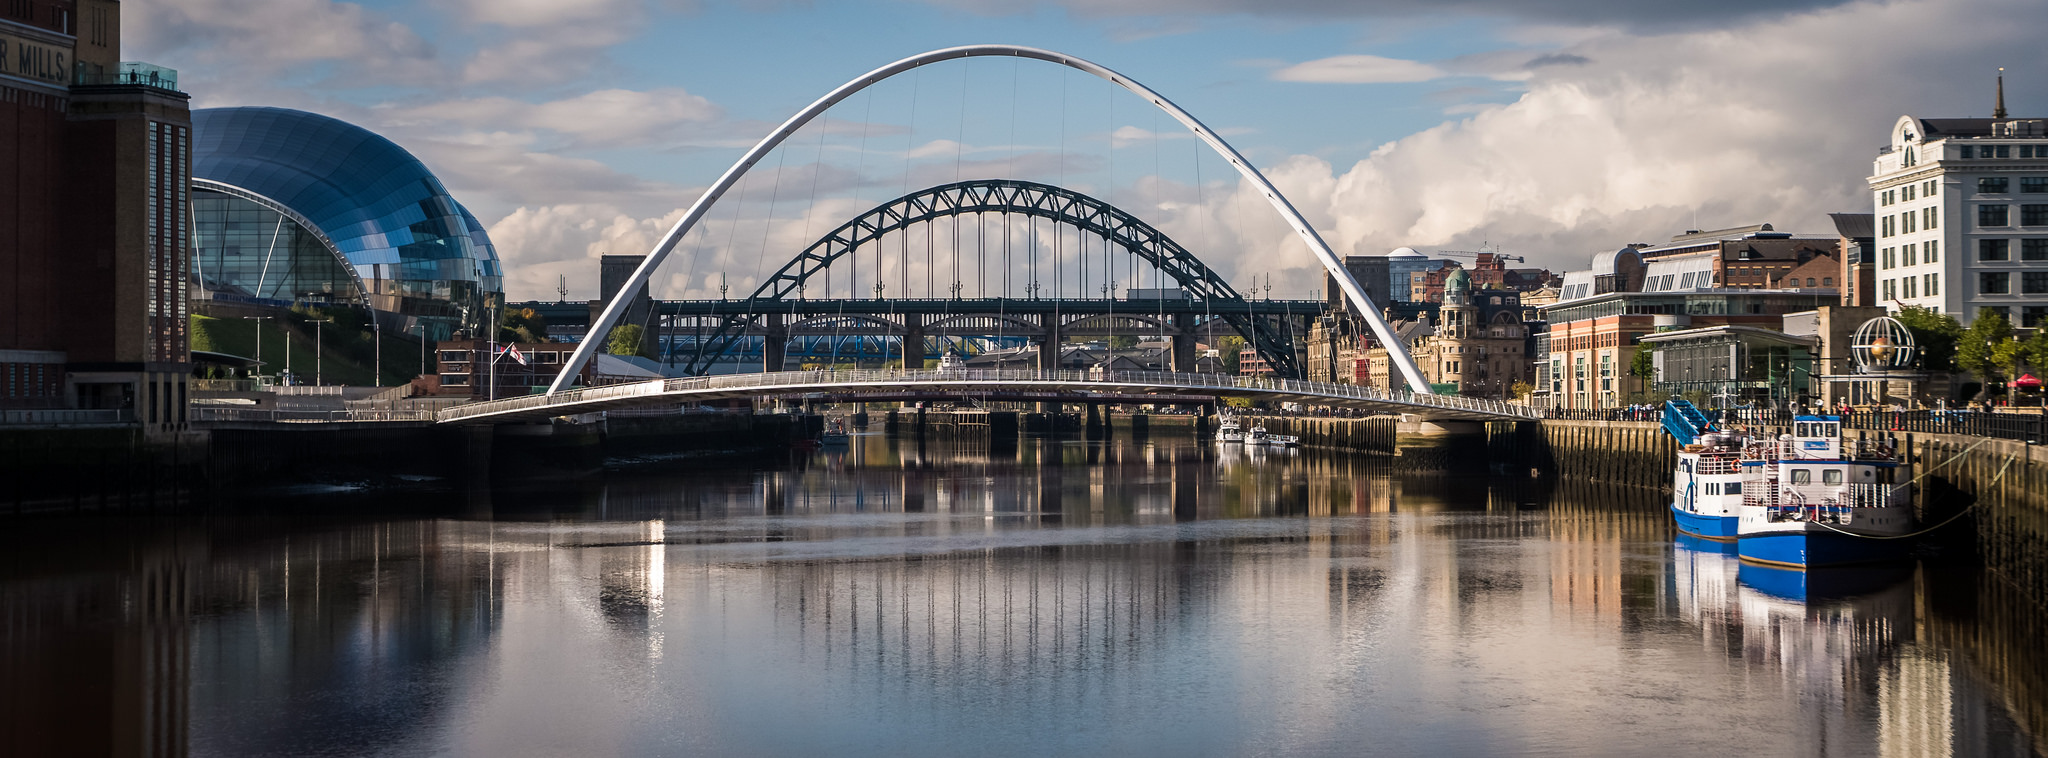
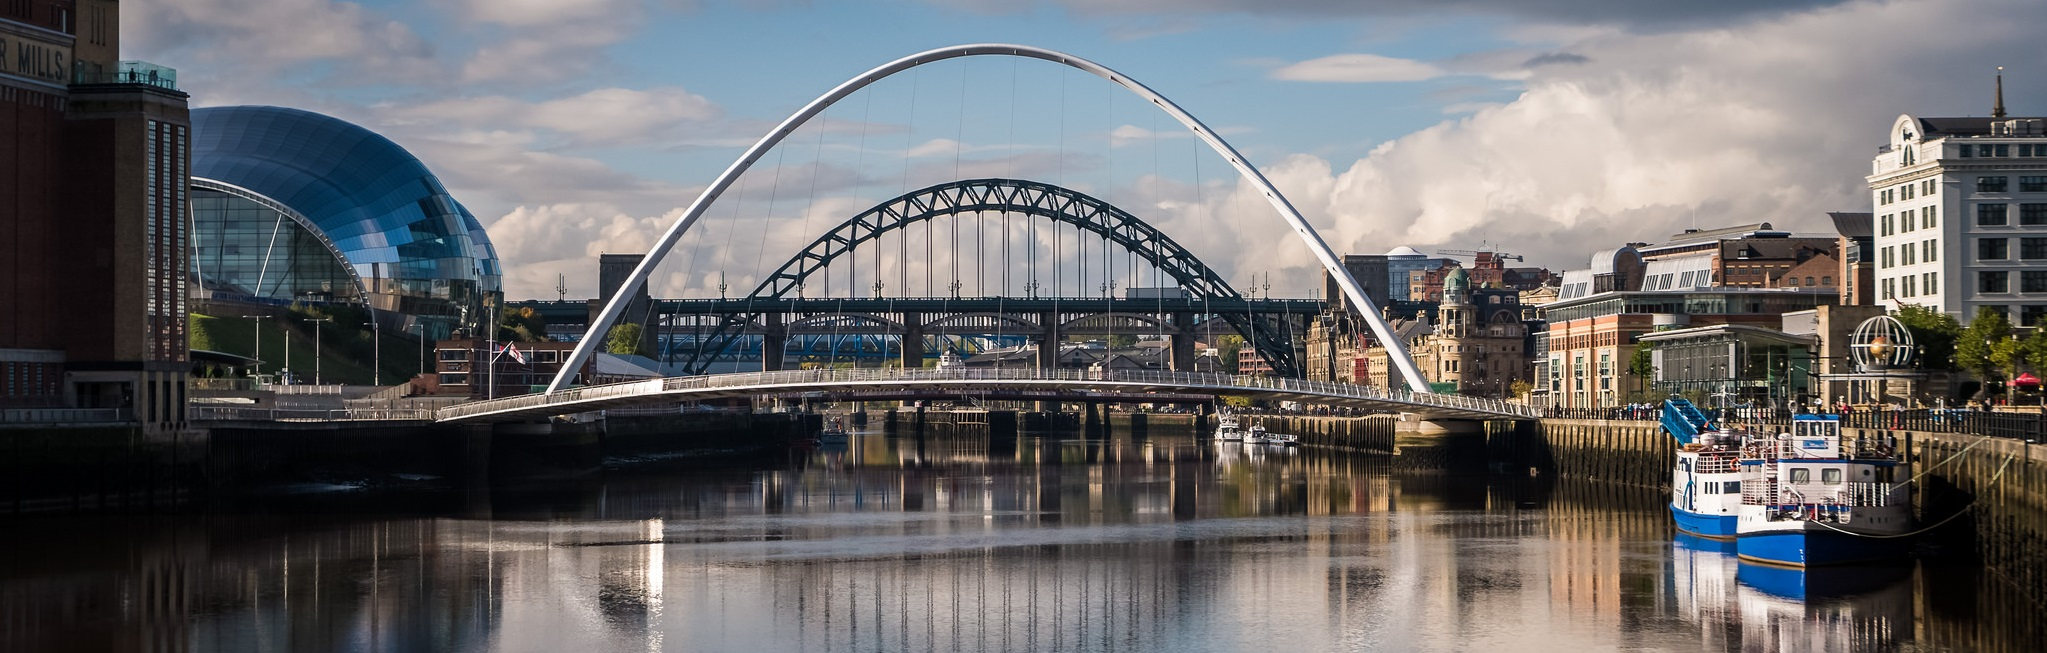
Rename / remove some images

diff --git a/index.html b/index.html
@@ -36,9 +36,9 @@
           <img src="https://avatars1.githubusercontent.com/u/4378571?s=460&v=4" alt="profile pic" class="img-responsive profile-pic center-block">
           <h1>Matthew Jacques</h1>
           <h2>Software Developer, C++</h2>
-          <a href="mailto:matthew-jacques@outlook.com" class="email"><span class="glyphicon glyphicon-envelope" aria-hidden="true"></span>matthew-jacques@outlook.com</a>
+          <!-- <a href="mailto:email@email.com" class="email"><span class="glyphicon glyphicon-envelope" aria-hidden="true"></span>email@email.com</a> -->
         </div>
-        
+
       </div>
     </div>
 
@@ -51,19 +51,19 @@
         <h1 class="text-center section-heading">Work</h1>
       </div>
     </div>
-	
+
 	<!-- Backlog Manager -->
     <div class="row">
 
       <div class="col-sm-8 col-sm-offset-2">
-        
+
         <div class="col-lg-8">
           <img src="img/projects/BacklogManager/Forms.png" alt="Backlog Manager" class="img-responsive center-block">
         </div>
 
         <div class="col-lg-4">
           <h3>Backlog Manager</h3>
-          <p>An app built to efficiently manage a backlog of games. The application supports PC, PS3, PS4 and PS Vita. 
+          <p>An app built to efficiently manage a backlog of games. The application supports PC, PS3, PS4 and PS Vita.
 		  Users can set the play status of each game while the game list has filters to hide certain platforms and play statuses.</p>
           <p><a href="https://github.com/MattyJacques/BacklogManager">GitHub Repo</a></p>
         </div>
@@ -78,24 +78,24 @@
       </div>
 
     </div>
-	
+
     <br/><br/>
-	
+
 	<!-- Edge-Matching Puzzle Solver (Genetic Algorithm) -->
     <div class="row">
 
       <div class="col-sm-8 col-sm-offset-2">
-        
+
         <div class="col-lg-8">
           <img src="img/projects/EdgeMatchingPuzzleSolver/EdgeMatchingPuzzleSolver.png" alt="" class="img-responsive center-block">
         </div>
 
         <div class="col-lg-4">
           <h3>Edge-Matching Puzzle Solver (Genetic Algorithm)</h3>
-          <p>For my final year project at university I created a Windows console applications that uses a Genetic Algorithm to attempt 
-		  to solve edge-matching puzzles such as the “unsolvable” Eternity II. Multiple methods have been implemented within the 
+          <p>For my final year project at university I created a Windows console applications that uses a Genetic Algorithm to attempt
+		  to solve edge-matching puzzles such as the “unsolvable” Eternity II. Multiple methods have been implemented within the
 		  Genetic Algorithm for each of the internal components such as selection and crossover. The application reads a settings file
-		  in which the user can edit to select which methods to use along with how big and complicated the puzzle is. All data the 
+		  in which the user can edit to select which methods to use along with how big and complicated the puzzle is. All data the
 		  application needs for the pieces of the puzzle are stored in a data file which is selected after parsing the settings.</p>
           <p><a href="https://github.com/MattyJacques/Eternity-II-Genetic-Algorithm">GitHub Repo</a></p>
         </div>
@@ -108,23 +108,23 @@
       </div>
 
     </div>
-	
+
     <br/><br/>
-	
+
 	<!-- Werewolf: Witch Hunt -->
     <div class="row">
 
       <div class="col-sm-8 col-sm-offset-2">
-        
+
         <div class="col-lg-8">
 		  <iframe width="700" height="400"
             src="https://www.youtube.com/embed/DRBMR0990Gc">
-           </iframe> 
+           </iframe>
         </div>
 
         <div class="col-lg-4">
           <h3>Werewolf: Witch Hunt</h3>
-          <p>This game was created with two other students for a group assignment. 
+          <p>This game was created with two other students for a group assignment.
 		  The game we created was a 2D platformer in which the player transforms to and from a werewolf state depending on the location of the moon which moves along the level at a set speed.</p>
           <p><a href="https://github.com/MattyJacques/Combined-Games-Werewolf">GitHub Repo</a></p>
         </div>
@@ -138,24 +138,24 @@
       </div>
 
     </div>
-	
+
 	<br/><br/>
-	
+
 	<!-- BeatMyBot (AI & Networking) -->
     <div class="row">
 
       <div class="col-sm-8 col-sm-offset-2">
-        
+
         <div class="col-lg-8">
           <iframe width="700" height="400" src="https://www.youtube.com/embed/ONSj3GWju9U" frameborder="0" allow="autoplay; encrypted-media" allowfullscreen></iframe>
         </div>
 
         <div class="col-lg-4">
           <h3>BeatMyBot (AI & Networking)</h3>
-          <p>In the Specialist Games Programming module at university I was tasked to create a state machine that controlled a team of bots that would play a domination type game against some provided AI. 
-		  This involved creating behaviours to be controlled by the state machine. 
-		  The networking section of the assignment was to create a server and a client, where the client would get the data from the server and show this on the client side. 
-		  This was improved from sending the entire class object over (which was what we were told to do) to sending select data over to save network traffic. 
+          <p>In the Specialist Games Programming module at university I was tasked to create a state machine that controlled a team of bots that would play a domination type game against some provided AI.
+		  This involved creating behaviours to be controlled by the state machine.
+		  The networking section of the assignment was to create a server and a client, where the client would get the data from the server and show this on the client side.
+		  This was improved from sending the entire class object over (which was what we were told to do) to sending select data over to save network traffic.
 		  This assignment also brought experience towards writing A* path finding.</p>
           <p><a href="https://github.com/MattyJacques/BeatMyBot">GitHub Repo</a></p>
         </div>
@@ -169,14 +169,14 @@
       </div>
 
     </div>
-	
+
 	<br/><br/>
 
 	<!-- Deal or No Deal (Playstation 3 Game) -->
     <div class="row">
 
       <div class="col-lg-4 col-sm-offset-2">
-        
+
         <div id="myCarousel" class="carousel slide" data-ride="carousel">
           <!-- Indicators -->
           <ol class="carousel-indicators">
@@ -200,11 +200,11 @@
             <div class="item">
               <img src="img/projects/DealOrNoDeal/DealOrNoDeal3.jpg" alt="Deal Or No Deal">
             </div>
-			
+
 			<div class="item">
               <img src="img/projects/DealOrNoDeal/DealOrNoDeal4.jpg" alt="Deal Or No Deal">
             </div>
-			
+
 			<div class="item">
               <img src="img/projects/DealOrNoDeal/DealOrNoDeal5.jpg" alt="Deal Or No Deal">
             </div>
@@ -224,9 +224,9 @@
 
         <div class="col-lg-4">
           <h3>Deal or No Deal (Playstation 3 Game)</h3>
-          <p>In my second year at university there was a module for development on a Playstation 3 development kit. 
-		  The assignment for this module was to create a game on the development tool with free choice on the game I could create. 
-		  The game I chose was Deal or no Deal similar to the TV show. 
+          <p>In my second year at university there was a module for development on a Playstation 3 development kit.
+		  The assignment for this module was to create a game on the development tool with free choice on the game I could create.
+		  The game I chose was Deal or no Deal similar to the TV show.
 		  The game is completely 3D with dynamic textures so when a player picks up a box with a cash amount in it, the texture on the board turns black to cover up the cash amount that is now out of play.</p>
           <p><a href="https://github.com/MattyJacques/PS3-Deal-or-No-Deal">GitHub Repo</a></p>
         </div>
@@ -242,21 +242,21 @@
       </div>
 
     </div>
-	
+
 	<br/><br/>
-	
+
 	<!-- Snake -->
     <div class="row">
 
       <div class="col-sm-8 col-sm-offset-2">
-        
+
         <div class="col-lg-8">
           <iframe width="700" height="400" src="https://www.youtube.com/embed/x2f5YsfPRiA" frameborder="0" allow="autoplay; encrypted-media" allowfullscreen></iframe>
         </div>
 
         <div class="col-lg-4">
           <h3>Snake (Assembly Code)</h3>
-          <p>In my final year of university I was tasked with writing the game snake is Assembly code using the 68k architecture. 
+          <p>In my final year of university I was tasked with writing the game snake is Assembly code using the 68k architecture.
 		  This was my first experience with Assembler however a good product came out of it and I learned quite a lot while progressing with this project.</p>
           <p><a href="https://github.com/MattyJacques/Snake-Easy68k-Assembly">GitHub Repo</a></p>
         </div>
@@ -268,14 +268,14 @@
       </div>
 
     </div>
-	
+
 	<br/><br/>
-	
+
 	<!-- Project 4 -->
 <!--    <div class="row">
 
       <div class="col-sm-8 col-sm-offset-2">
-        
+
         <div class="col-lg-8">
           <img src="img/projects/jobbie1.png" alt="" class="img-responsive center-block">
         </div>
@@ -296,14 +296,14 @@
       </div>
 
     </div> -->
-	
+
   </section>
 
   <hr>
 
   <!-- Technical Experience -->
   <section>
-    
+
     <div class="row">
       <div class="col xs-12">
         <h1 class="text-center section-heading">Technologies</h1>
@@ -316,7 +316,7 @@
       <img src="img/techlogos/qt.png" alt="QT logo" class="techlogo">
       <img src="img/techlogos/sqlite.png" alt="SQLite logo" class="techlogo">
 	  <img src="img/techlogos/mfc.png" alt="MFC logo">
-	  <img src="img/techlogos/git.png" alt="Git logo" class="techlogo">	  
+	  <img src="img/techlogos/git.png" alt="Git logo" class="techlogo">
     </div>
 
   </section>
@@ -344,7 +344,7 @@
             <span class="tech-tool-item">
               <span class="glyphicon glyphicon glyphicon-ok" aria-hidden="true"></span>
               Unity Game Engine
-            </span> 
+            </span>
 			<span class="tech-tool-item">
               <span class="glyphicon glyphicon glyphicon-ok" aria-hidden="true"></span>
               Qt Designer
@@ -355,12 +355,12 @@
   </section>
 
   <hr>
-    
+
     <div class="row row-footer">
-      <div class="col footer-col text-center">
+      <!-- <div class="col footer-col text-center">
         <h3>Contact me at</h3>
-        <a href="mailto:matthew-jacques@outlook.com" class="email"><span class="glyphicon glyphicon-envelope" aria-hidden="true"></span>matthew-jacques@outlook.com</a>
-      </div>
+        <a href="mailto:email@email.com" class="email"><span class="glyphicon glyphicon-envelope" aria-hidden="true"></span>email@email.com</a>
+      </div> -->
     </div>
 
     </div> <!-- end container -->

diff --git a/css/styles.css b/css/styles.css
@@ -29,7 +29,7 @@ hr {
 
 .navbar.navbar-default {
 	background: none;
-	border: none; 
+	border: none;
   z-index: 1;
 }
 
@@ -41,7 +41,7 @@ hr {
 
 .row-header {
   padding: 10vh 10vw 0 10vw;
-  background-image: url('../img/newcastle2.jpg');
+  background-image: url('../img/newcastle.jpg');
   background-repeat: no-repeat;
   background-position: bottom;
   background-size: cover;
@@ -120,7 +120,7 @@ hr {
 .row-footer {
 	padding: 0vh 10vw 10vw 10vw;
 	margin-top:100px;
-	background-image: url('../img/newcastle2.jpg');
+	background-image: url('../img/newcastle.jpg');
   background-position: bottom;
   background-repeat: no-repeat;
   background-size: cover;
